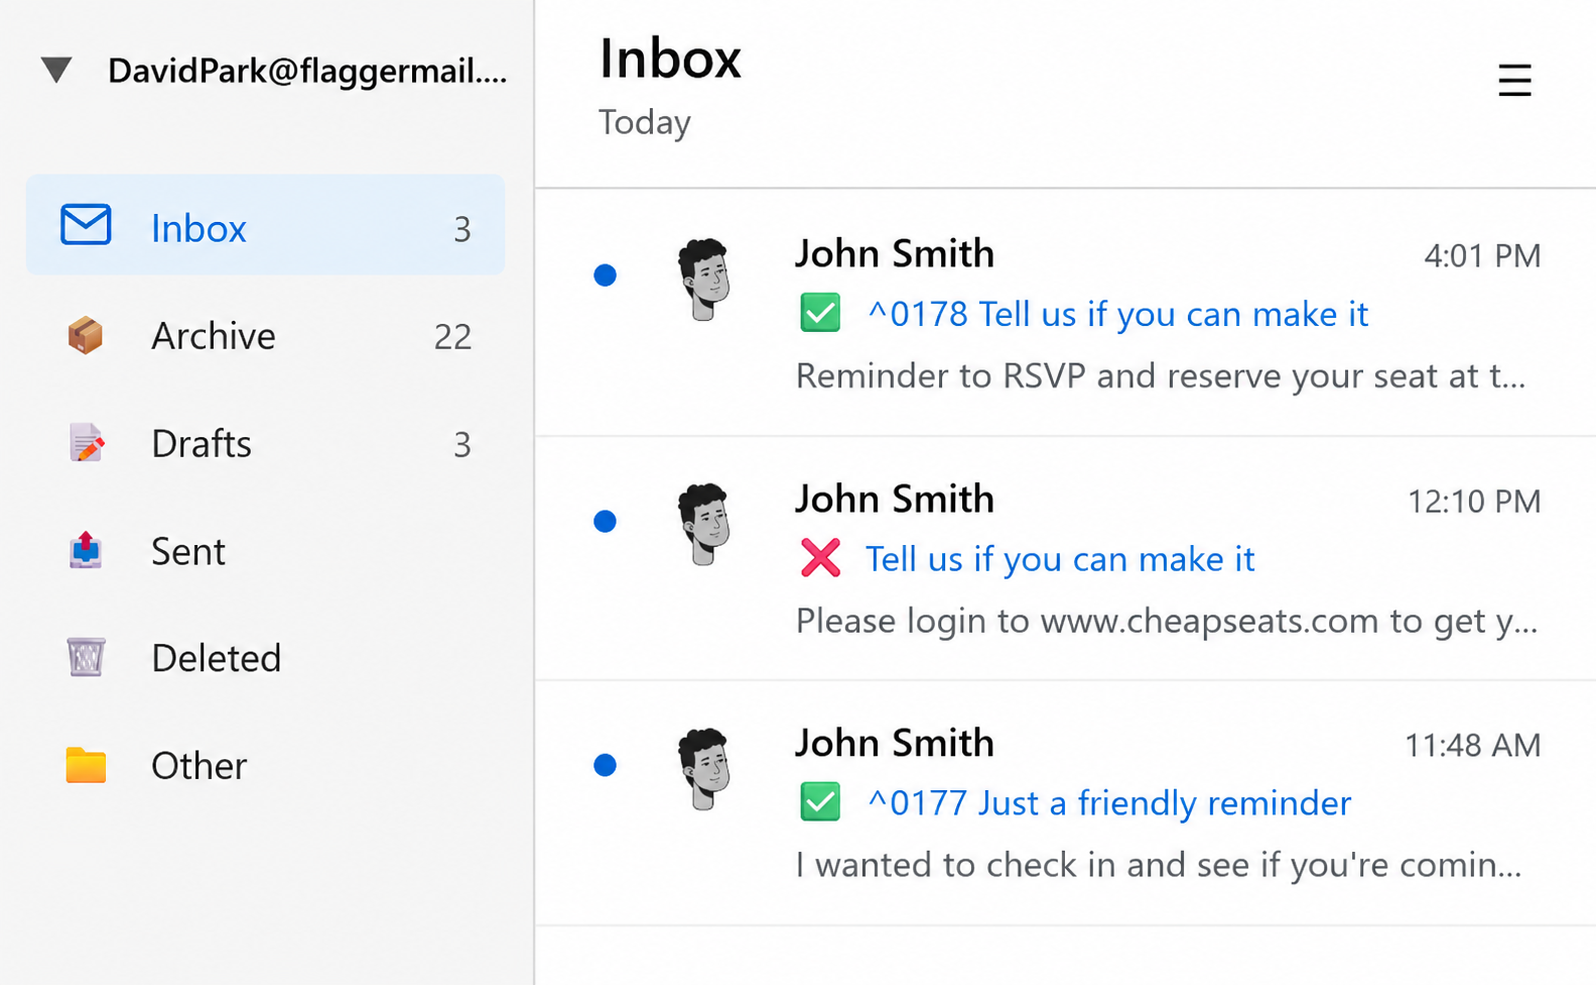
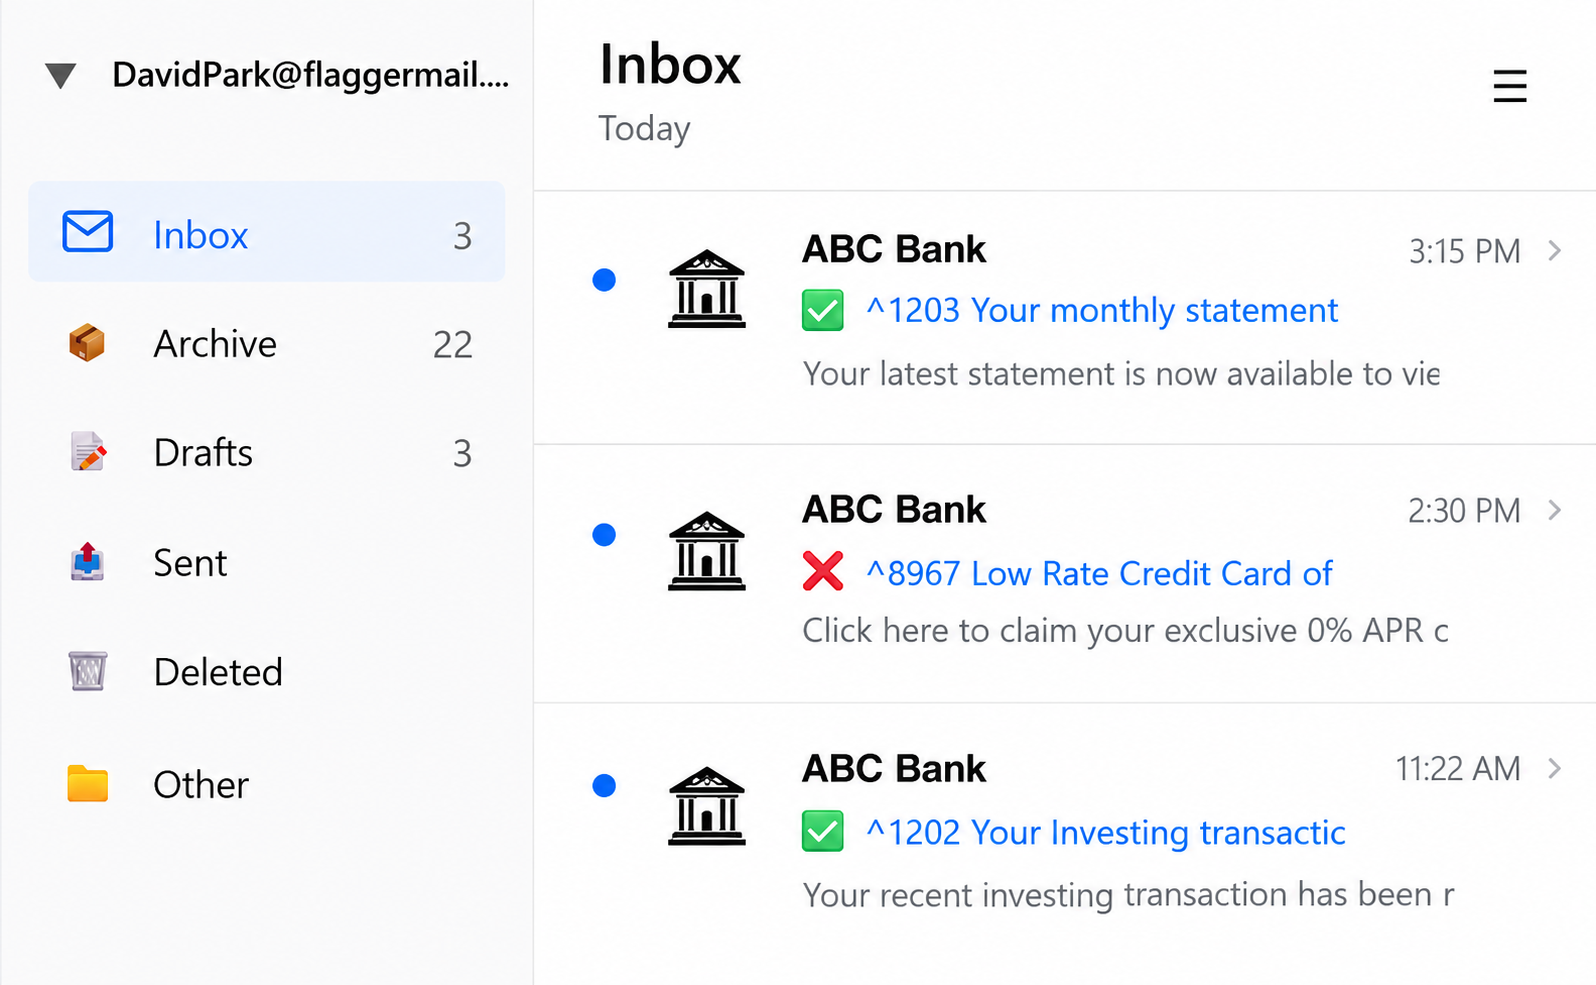
new changes again 19

diff --git a/src/pages/Home.jsx b/src/pages/Home.jsx
@@ -285,13 +285,19 @@ export default function Home() {
               <br />
               Free
             </span>
-            <div className="flex h-[150px] w-[150px] items-center justify-center">
+            <div className="flex h-[150px] w-[150px] items-center justify-center rounded-lg border-2 border-black">
               <img
                 src="/assets/images/individual.png"
                 alt="Individual protection illustration"
                 className="h-[130px] w-[130px] object-contain"
               />
             </div>
+            <Link
+              to="/join/email-free-plug-in"
+              className="mt-4 inline-flex h-[34px] items-center justify-center rounded-full bg-[#585858] px-5 text-[13px] font-semibold text-white transition-colors hover:bg-[#3f3f3f]"
+            >
+              Join
+            </Link>
           </div>
           <div className="flex w-[150px] flex-col items-center">
             <span className="mb-3 text-center text-[20px] font-semibold leading-tight text-ink sm:text-[22px]">
@@ -299,7 +305,7 @@ export default function Home() {
               <br />
               Corporate
             </span>
-            <div className="flex h-[150px] w-[150px] items-center justify-center">
+            <div className="flex h-[150px] w-[150px] items-center justify-center rounded-lg border-2 border-black">
               <svg
                 viewBox="0 0 150 150"
                 role="img"
@@ -332,6 +338,12 @@ export default function Home() {
                 />
               </svg>
             </div>
+            <Link
+              to="/join/email-plug-in"
+              className="mt-4 inline-flex h-[34px] items-center justify-center rounded-full bg-[#585858] px-5 text-[13px] font-semibold text-white transition-colors hover:bg-[#3f3f3f]"
+            >
+              Join
+            </Link>
           </div>
           <div className="flex w-[150px] flex-col items-center">
             <span className="mb-3 text-center text-[20px] font-semibold leading-tight text-ink sm:text-[22px]">
@@ -339,25 +351,37 @@ export default function Home() {
               <br />
               Corporate
             </span>
-            <div className="flex h-[150px] w-[150px] items-center justify-center">
+            <div className="flex h-[150px] w-[150px] items-center justify-center rounded-lg border-2 border-black">
               <img
                 src="/assets/images/domain.png"
                 alt="Domain protection illustration"
                 className="h-[130px] w-[130px] object-contain"
               />
             </div>
+            <Link
+              to="/join/email-domain"
+              className="mt-4 inline-flex h-[34px] items-center justify-center rounded-full bg-[#585858] px-5 text-[13px] font-semibold text-white transition-colors hover:bg-[#3f3f3f]"
+            >
+              Join
+            </Link>
           </div>
           <div className="flex w-[150px] flex-col items-center">
             <span className="mb-3 whitespace-nowrap text-[20px] font-semibold leading-tight text-ink sm:text-[22px]">
               Marketing
             </span>
-            <div className="mt-[1.7rem] flex h-[150px] w-[150px] items-center justify-center">
+            <div className="mt-[1.7rem] flex h-[150px] w-[150px] items-center justify-center rounded-lg border-2 border-black">
               <img
                 src={whoCanUseImg}
                 alt="Join PhishFlagger illustration"
                 className="h-[130px] w-[130px] object-contain"
               />
             </div>
+            <Link
+              to="/join/email-marketing"
+              className="mt-4 inline-flex h-[34px] items-center justify-center rounded-full bg-[#585858] px-5 text-[13px] font-semibold text-white transition-colors hover:bg-[#3f3f3f]"
+            >
+              Join
+            </Link>
           </div>
         </div>
       </div>
@@ -387,7 +411,7 @@ export default function Home() {
         {/* Right — heading + text */}
         <div>
           <h2 className="text-[28px] font-bold leading-[1.15] tracking-tight text-ink sm:text-[34px] lg:text-[40px]">
-            Telecom / Caller ID
+            <BrandInline />™ for Telecom / Caller ID
           </h2>
           <p className="mt-4 text-[14px] leading-[1.65] text-ink sm:mt-6 sm:text-[15px] sm:leading-[1.6]">
             Fake phone calls can be prevented now.
@@ -405,6 +429,12 @@ export default function Home() {
               Sign our Petition
             </Link>
           </p>
+          <Link
+            to="/join/telecom"
+            className="mt-6 inline-flex h-[42px] items-center justify-center rounded-[7px] bg-[#585858] px-7 text-[14px] font-semibold text-white transition-colors hover:bg-[#3f3f3f]"
+          >
+            Telecom
+          </Link>
         </div>
       </div>
     </section>

diff --git a/src/pages/join/EmailDomain.jsx b/src/pages/join/EmailDomain.jsx
@@ -2,6 +2,7 @@
 import CloseButton from "../../components/ui/CloseButton.jsx";
 import domainProtectionImg from "../../assets/images/3rd section left image.avif";
 import domainProtocolImg from "../../assets/images/4th section.avif";
+import inboxImg from "../../assets/images/email-inbox v2.png";
 
 export default function EmailDomain() {
   return (
@@ -53,15 +54,41 @@ export default function EmailDomain() {
       <Divider />
 
       <section className="w-full bg-white px-4 py-14 sm:px-6 sm:py-20">
-        <div className="mx-auto grid max-w-content grid-cols-1 items-center gap-12 lg:grid-cols-[1fr_1fr] lg:gap-20">
+        <div className="mx-auto grid max-w-content grid-cols-1 items-center gap-12 lg:grid-cols-[0.9fr_1fr] lg:gap-20">
           <div className="flex justify-center lg:justify-start">
             <img
-              src={domainProtocolImg}
-              alt="Email authentication protocol showing PhishFlagger with outgoing email validation"
-              className="h-auto w-full max-w-[500px] object-contain"
+              src={inboxImg}
+              alt="PhishFlagger inbox showing validated and flagged emails"
+              className="h-auto w-full max-w-[520px] rounded-lg border-2 border-black object-contain"
             />
           </div>
 
+          <div className="space-y-5 text-[14px] leading-[1.75] text-ink-muted sm:text-[15px]">
+            <h2 className="text-[24px] font-bold leading-tight tracking-tight text-ink sm:text-[30px]">
+              <BrandInline />
+              &trade; for Domain
+            </h2>
+            <p>
+              All email addresses within the domain are automatically{" "}
+              <BrandInline />
+              &trade; enabled across all devices and operating systems. No
+              Install or configuration is required by the entire User base.
+            </p>
+            <p>
+              The is our best and safest implementation of the{" "}
+              <BrandInline />
+              &trade; Protocol &mdash; at the &ldquo;Email Domain
+              Level&rdquo;. It involves a DNS entry and routing similar to Spam
+              and Anti Virus solutions.
+            </p>
+          </div>
+        </div>
+      </section>
+
+      <Divider />
+
+      <section className="w-full bg-white px-4 py-14 sm:px-6 sm:py-20">
+        <div className="mx-auto grid max-w-content grid-cols-1 items-center gap-12 lg:grid-cols-[1fr_1fr] lg:gap-20">
           <div className="text-[14px] leading-[1.75] text-ink-muted sm:text-[15px]">
             <ul className="space-y-2 pl-5">
               <li className="list-disc">
@@ -78,6 +105,14 @@ export default function EmailDomain() {
                 impersonation, phishing and other email-based fraud.
               </li>
             </ul>
+          </div>
+
+          <div className="flex justify-center lg:justify-end">
+            <img
+              src={domainProtocolImg}
+              alt="Email authentication protocol showing PhishFlagger with outgoing email validation"
+              className="h-auto w-full max-w-[500px] object-contain"
+            />
           </div>
         </div>
       </section>

diff --git a/src/pages/about/Team.jsx b/src/pages/about/Team.jsx
@@ -36,7 +36,7 @@ const TEAM = [
   },
   {
     name: "Todd Sturgeon",
-    role: "CTO",
+    role: "CIPO",
     bio: "Todd holds a Master's in Technology Management from Memorial University. He brings 30+ years of experience in information systems management across cybersecurity, government, education, manufacturing and other sectors. He spearheads technology initiatives and advances intellectual property development. Todd has successfully led innovative email security solutions and advised governments on technology integration in education.",
     photo: toddImg,
   },
@@ -51,6 +51,11 @@ const TEAM = [
     role: "Cybersecurity Analyst",
     bio: "Shawn has over 25 years experience working for a \"top 3\" worldwide electronic component distribution company. He has extensive experience in marketing, and is responsible for keeping the PhishFlagger community up to date on the latest cybersecurity threats and initiatives.",
     photo: shawnImg,
+  },
+  {
+    name: "Recognition To Our Team",
+    role: "",
+    bio: "Joe Heir\nAlex Tichy\nDavid M?\nJoe Andre?\nJohn Grant\nRukhsar Hussain\nJE?EB?PG?NG?",
   },
 ];
 
@@ -112,20 +117,22 @@ function TeamCard({ name, role, bio, photo }) {
 
   return (
     <article className="flex flex-col rounded-2xl border border-gray-200 bg-white p-5 shadow-[0_2px_10px_rgba(15,23,42,0.04)] transition hover:shadow-[0_4px_18px_rgba(15,23,42,0.08)] sm:p-6">
-      <div className="relative h-[260px] w-full overflow-hidden rounded-xl bg-gray-50 sm:h-[280px]">
-        <img
-          src={photo}
-          alt={name}
-          onError={onImgError}
-          className="h-full w-full object-cover object-top"
-        />
-        <div
-          className="absolute inset-0 hidden items-center justify-center bg-gradient-to-br from-[#2a6df4] to-[#1a52c9] text-[48px] font-bold text-white"
-          aria-hidden
-        >
-          {initials}
+      {photo && (
+        <div className="relative h-[260px] w-full overflow-hidden rounded-xl bg-gray-50 sm:h-[280px]">
+          <img
+            src={photo}
+            alt={name}
+            onError={onImgError}
+            className="h-full w-full object-cover object-top"
+          />
+          <div
+            className="absolute inset-0 hidden items-center justify-center bg-gradient-to-br from-[#2a6df4] to-[#1a52c9] text-[48px] font-bold text-white"
+            aria-hidden
+          >
+            {initials}
+          </div>
         </div>
-      </div>
+      )}
 
       <h3 className="mt-5 text-[17px] font-semibold text-ink sm:text-[18px]">
         {name}
@@ -133,7 +140,7 @@ function TeamCard({ name, role, bio, photo }) {
       <p className="mt-1 text-[14px] font-bold text-ink sm:text-[14.5px]">
         {role}
       </p>
-      <p className="mt-4 text-[13.5px] leading-[1.65] text-ink sm:text-[14px]">
+      <p className="mt-4 whitespace-pre-line text-[13.5px] leading-[1.65] text-ink sm:text-[14px]">
         {brandify(bio)}
       </p>
     </article>

diff --git a/src/pages/join/Telecom.jsx b/src/pages/join/Telecom.jsx
@@ -339,6 +339,9 @@ export default function Telecom() {
             <br />
             in the following Jurisdiction:
           </p>
+          <p className="mx-auto mt-4 max-w-[700px] text-[16px] font-semibold leading-relaxed text-ink sm:text-[18px]">
+            We are offering exceptional opportunities to early adopters.
+          </p>
           <p className="mx-auto mt-8 max-w-[900px] text-[15px] leading-[1.85] text-ink sm:text-[18px]">
             Africa, Albania, Australia, Austria, Belgium, Brazil, Bulgaria,
             Canada, China, Columbia, Croatia, Cyprus, Czech Republic, Denmark,
@@ -413,31 +416,31 @@ const CALL_EXAMPLES = [
   {
     number: "...613-861-8600",
     seq: "2031",
-    name: "David Park",
+    name: "ABC Bank",
     status: "",
   },
   {
     number: "...613-861-8600",
     seq: "2032",
-    name: "David Park",
+    name: "ABC Bank",
     status: "",
   },
   {
     number: "...613-861-8600",
     seq: "2033",
-    name: "David Park",
+    name: "ABC Bank",
     status: "",
   },
   {
     number: "...613-861-8600",
     seq: "",
-    name: "David Park",
+    name: "ABC Bank",
     status: "<<< Fake",
   },
   {
     number: "...613-861-8600",
     seq: "3531",
-    name: "David Park",
+    name: "ABC Bank",
     status: "<<< Fake",
   },
 ];
